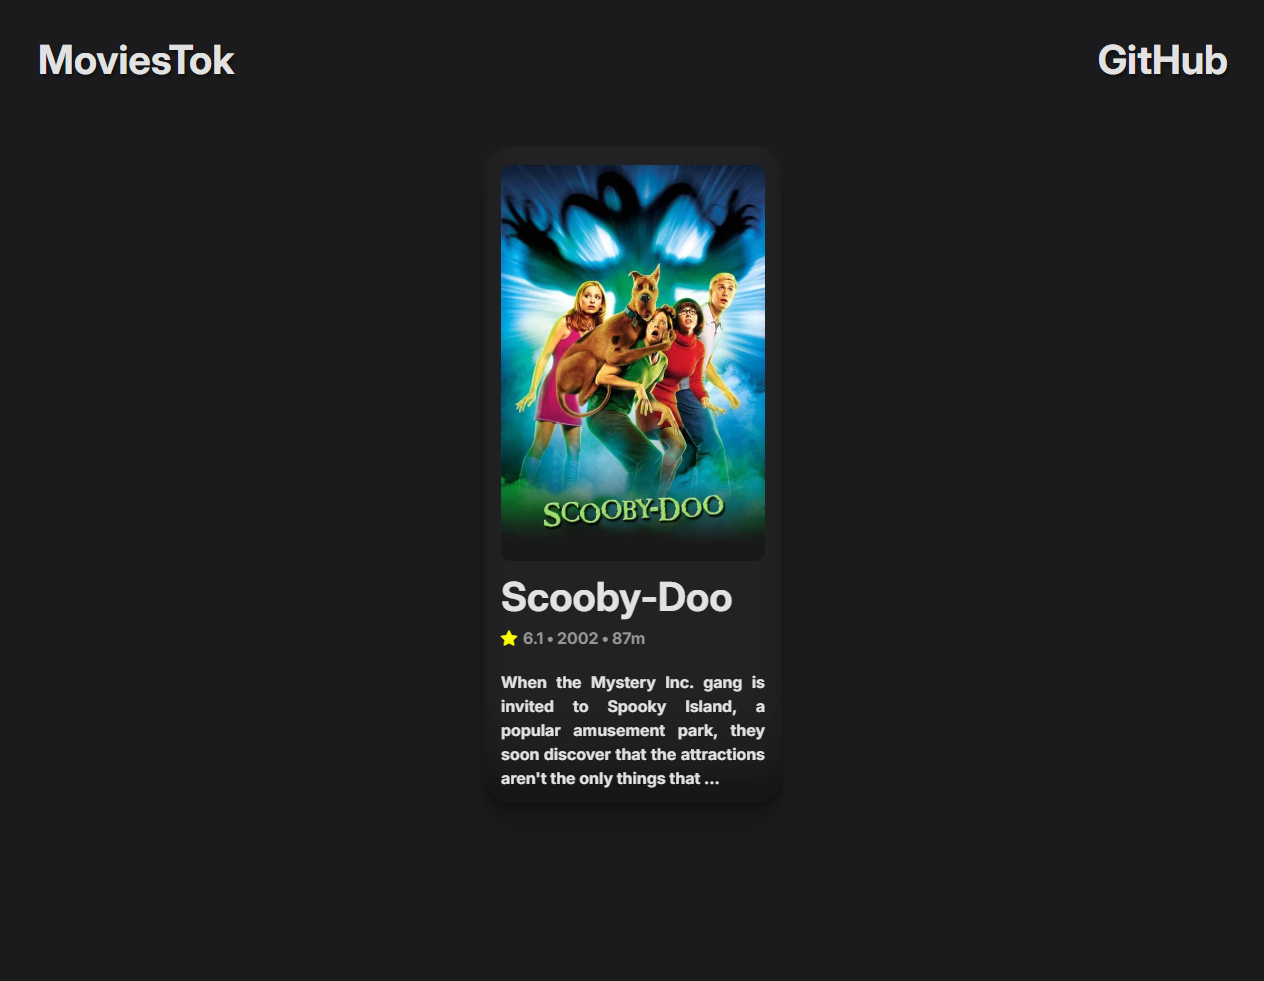
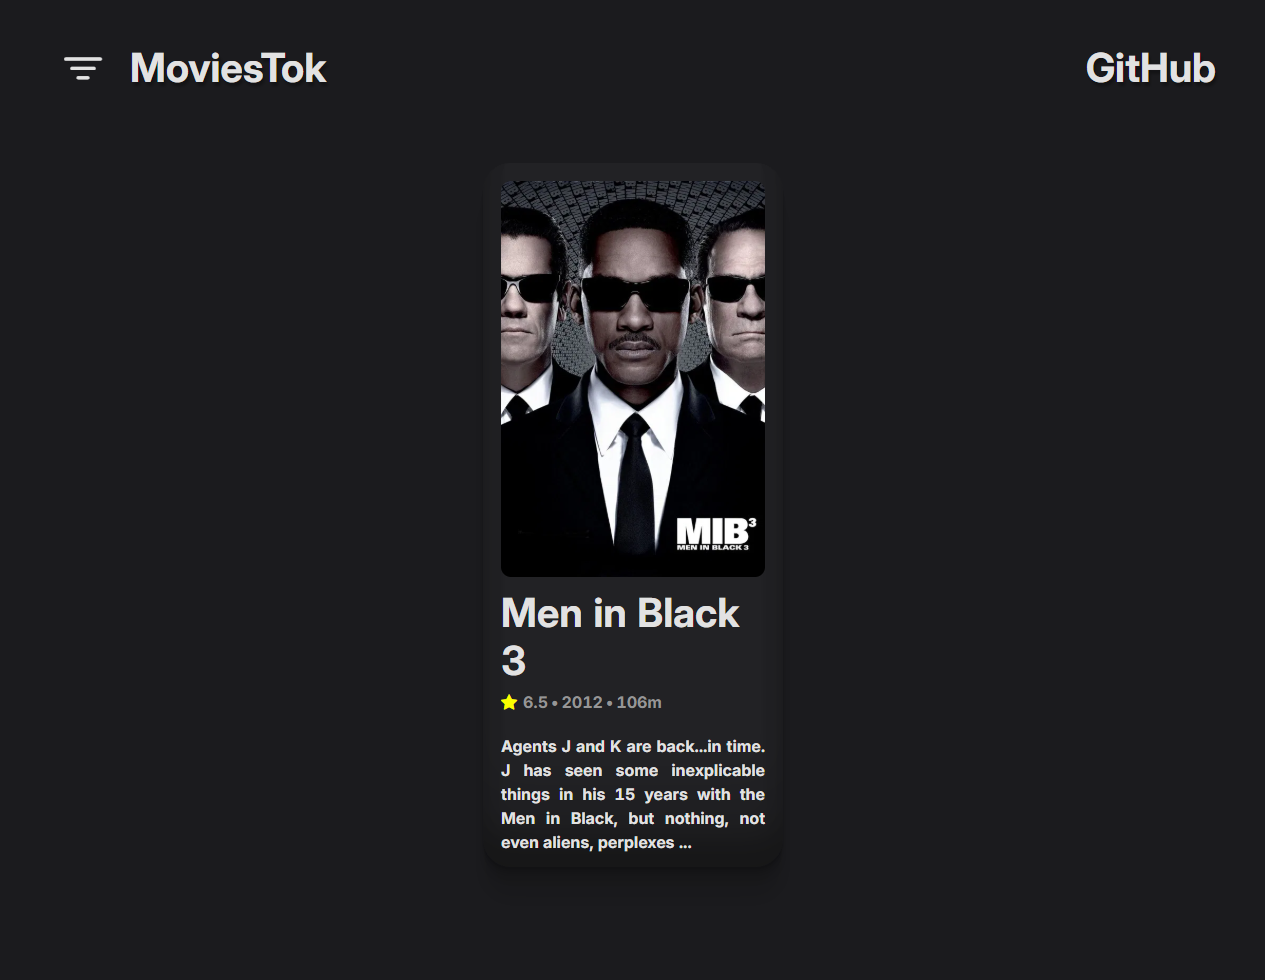
Readme update

Changed region(s): [[0.3703, 0.1531, 0.6171, 0.8878], [0.0309, 0.0306, 0.2777, 0.0918], [0.8639, 0.0306, 0.9873, 0.0918]]

diff --git a/README.md b/README.md
@@ -3,7 +3,7 @@
 ![Screenshot](./Screenshot.png)
 
 Many people have the problem of not knowing what to watch in the evening. So I created a website where you can randomly
-search for movies, just like a feed on TikTok.
+search for movies, just like a feed on TikTok. You can also use filters to make searching for movies more enjoyable!
 
 # Quick Start
 
